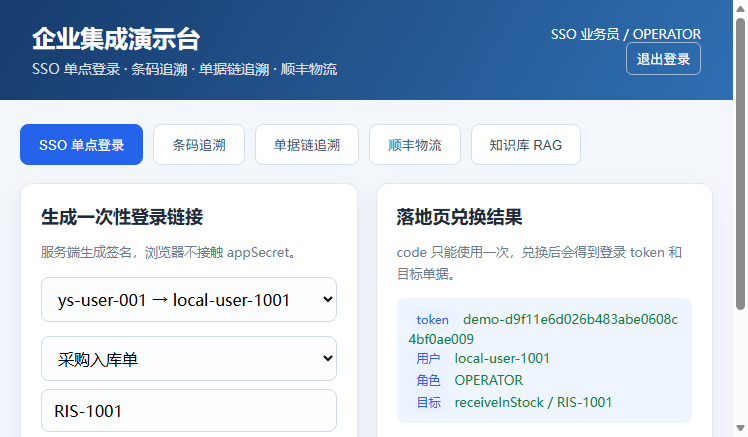
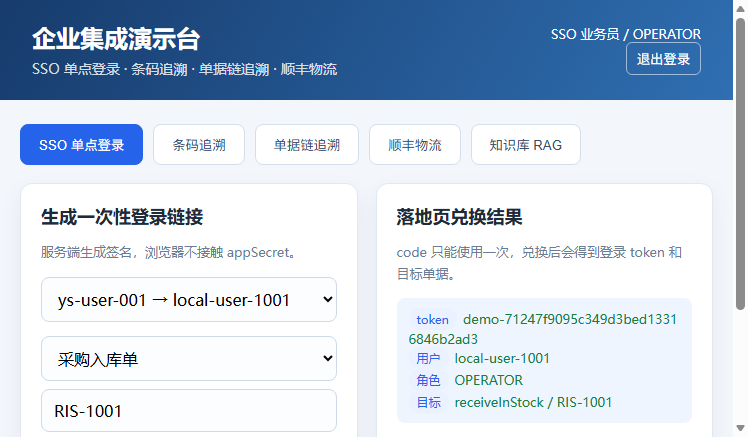
文档：补充 pgvector 配置和验证说明

Changed region(s): [[0.6765, 0.714, 0.9225, 0.7437], [0.5227, 0.7437, 0.6457, 0.8032]]

diff --git a/docs/verification.md b/docs/verification.md
@@ -48,3 +48,5 @@ API 验证：
 > 真实 Embedding 模式已完成代码接入，但当前默认使用本地哈希向量；未在本地配置外部 Embedding Key。
 
 > MySQL/Redis 模式已提供 Docker Compose 和 SQL 初始化脚本；当前验证环境 Docker daemon 未启动，因此该模式只完成编译和配置校验。
+
+> pgvector 模式已提供 PostgreSQL + pgvector Compose、建表和 HNSW 检索代码；当前 Docker daemon 未启动，未做真实 pgvector 查询验证。默认 memory 模式已通过 20/20 浏览器验证和 10/10 RAG 评测。

diff --git a/business-integrations-demo/README.md b/business-integrations-demo/README.md
@@ -168,6 +168,21 @@ rag:
 
 默认 `provider: hash`；外部 Embedding 失败时也会降级到本地哈希向量。
 
+## pgvector 模式
+
+```powershell
+docker compose up -d postgres
+mvn spring-boot:run "-Dspring-boot.run.profiles=pgvector"
+```
+
+pgvector 模式：
+
+- 使用 PostgreSQL `vector` 扩展
+- chunk 写入 `rag_chunk`
+- HNSW 余弦索引
+- 按 PUBLIC / OPERATOR / ADMIN 过滤后检索
+- 通过 `GET /api/rag/info` 查看 `vectorStore=pgvector`
+
 权限：
 
 - 所有角色可以查询

diff --git a/docs/architecture.md b/docs/architecture.md
@@ -88,6 +88,13 @@ Web / Agent UI
 默认使用本地哈希 embedding，不依赖外部向量库；可以切换为 OpenAI-Compatible
 Embedding，后续再接入 pgvector / Milvus + Rerank，保留相同的权限过滤和引用协议。
 
+已提供 pgvector 模式：
+
+```text
+RagChunk -> PostgreSQL rag_chunk.embedding(vector)
+查询 -> HNSW cosine -> 权限过滤 -> 引用片段
+```
+
 回答生成支持两种模式：
 
 - 默认模板模式：无外部 Key，可解释

diff --git a/README.md b/README.md
@@ -119,6 +119,16 @@ rag:
 
 默认 `provider: hash`，没有外部 Key 也能运行。
 
+可选 pgvector：
+
+```powershell
+cd business-integrations-demo
+docker compose up -d postgres
+mvn spring-boot:run "-Dspring-boot.run.profiles=pgvector"
+```
+
+pgvector 模式使用 PostgreSQL + `vector(1536)` 存储 chunk；默认 memory 模式不受影响。
+
 ## 演示登录
 
 | 账号 | 密码 | 角色 |
